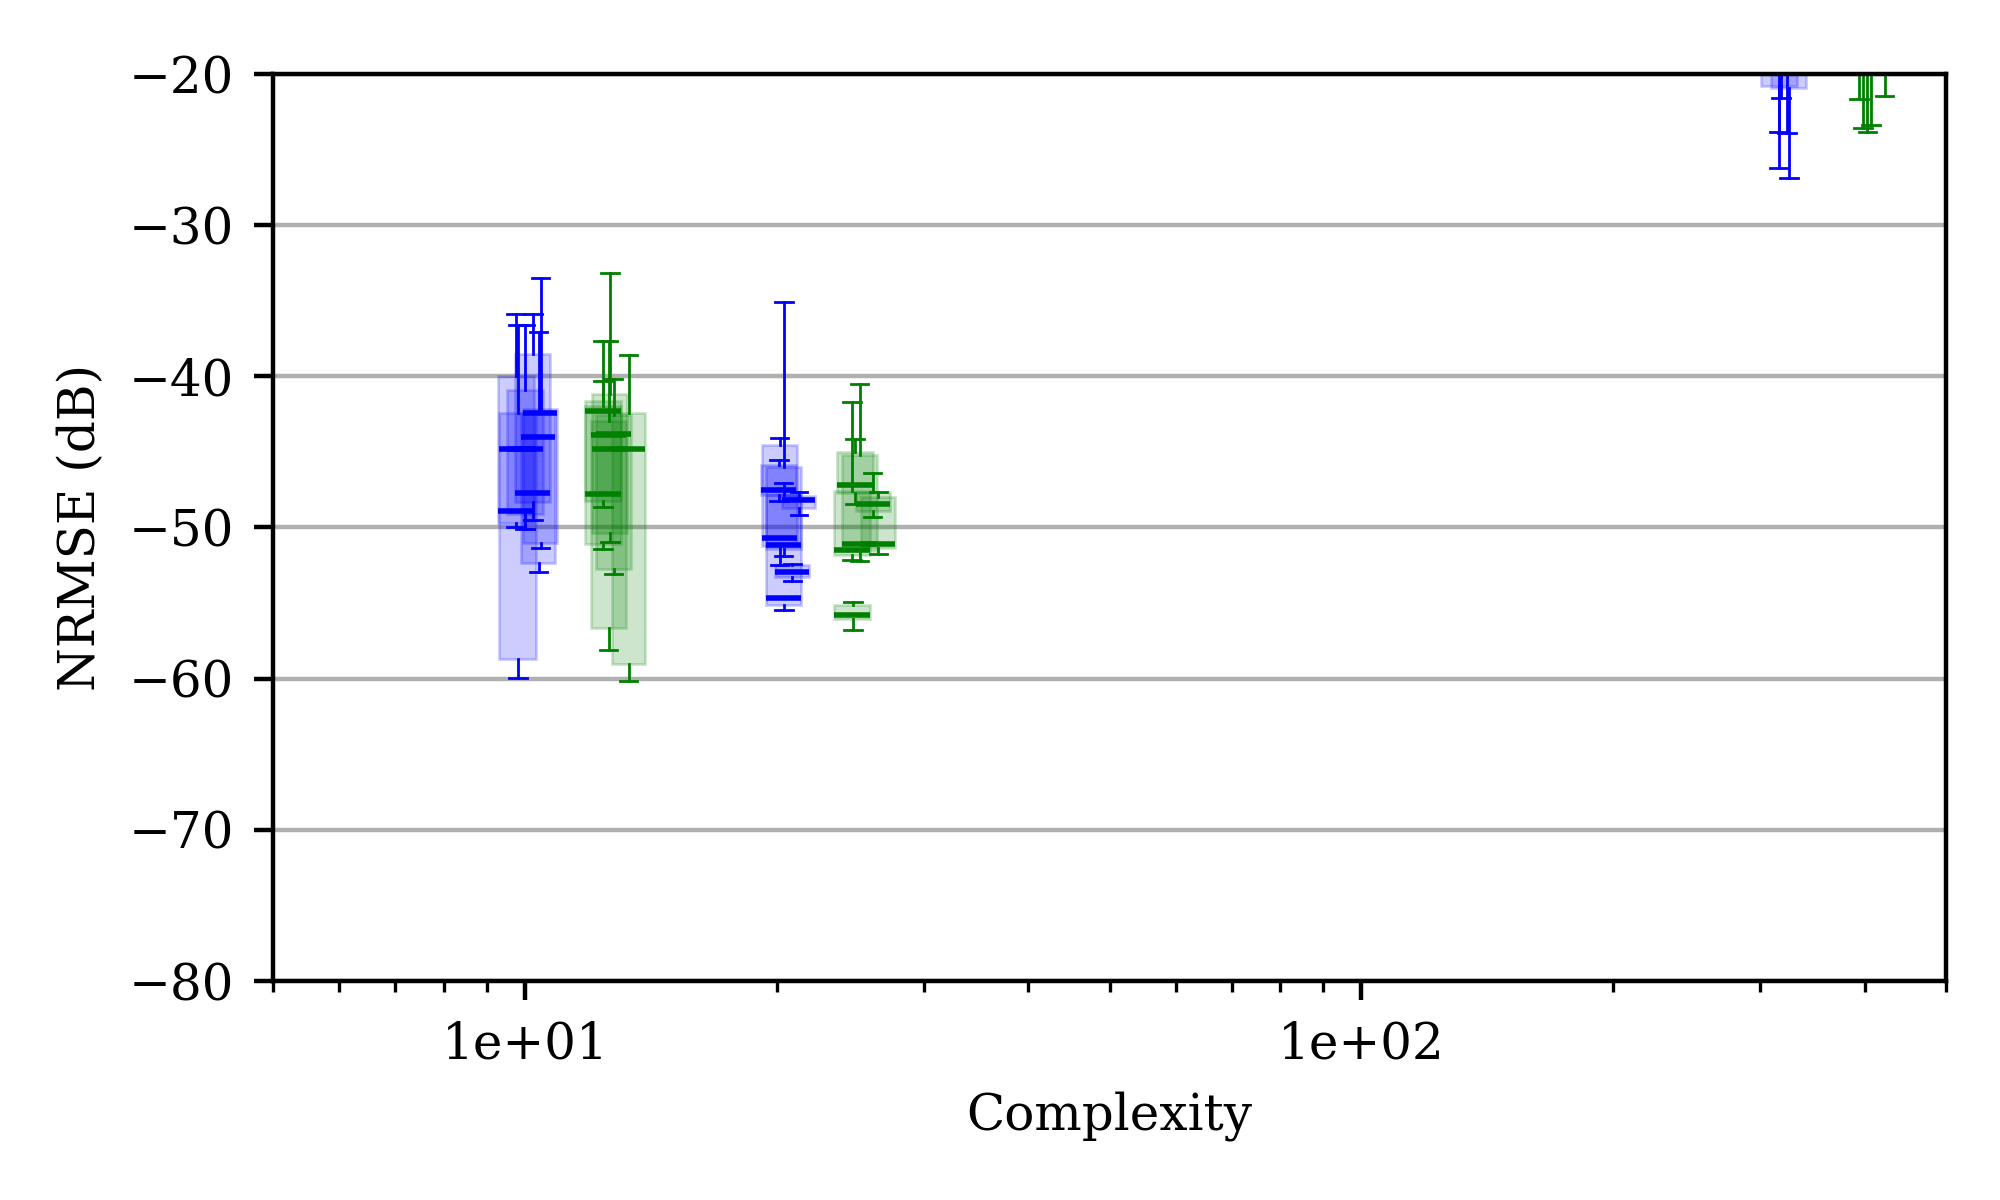
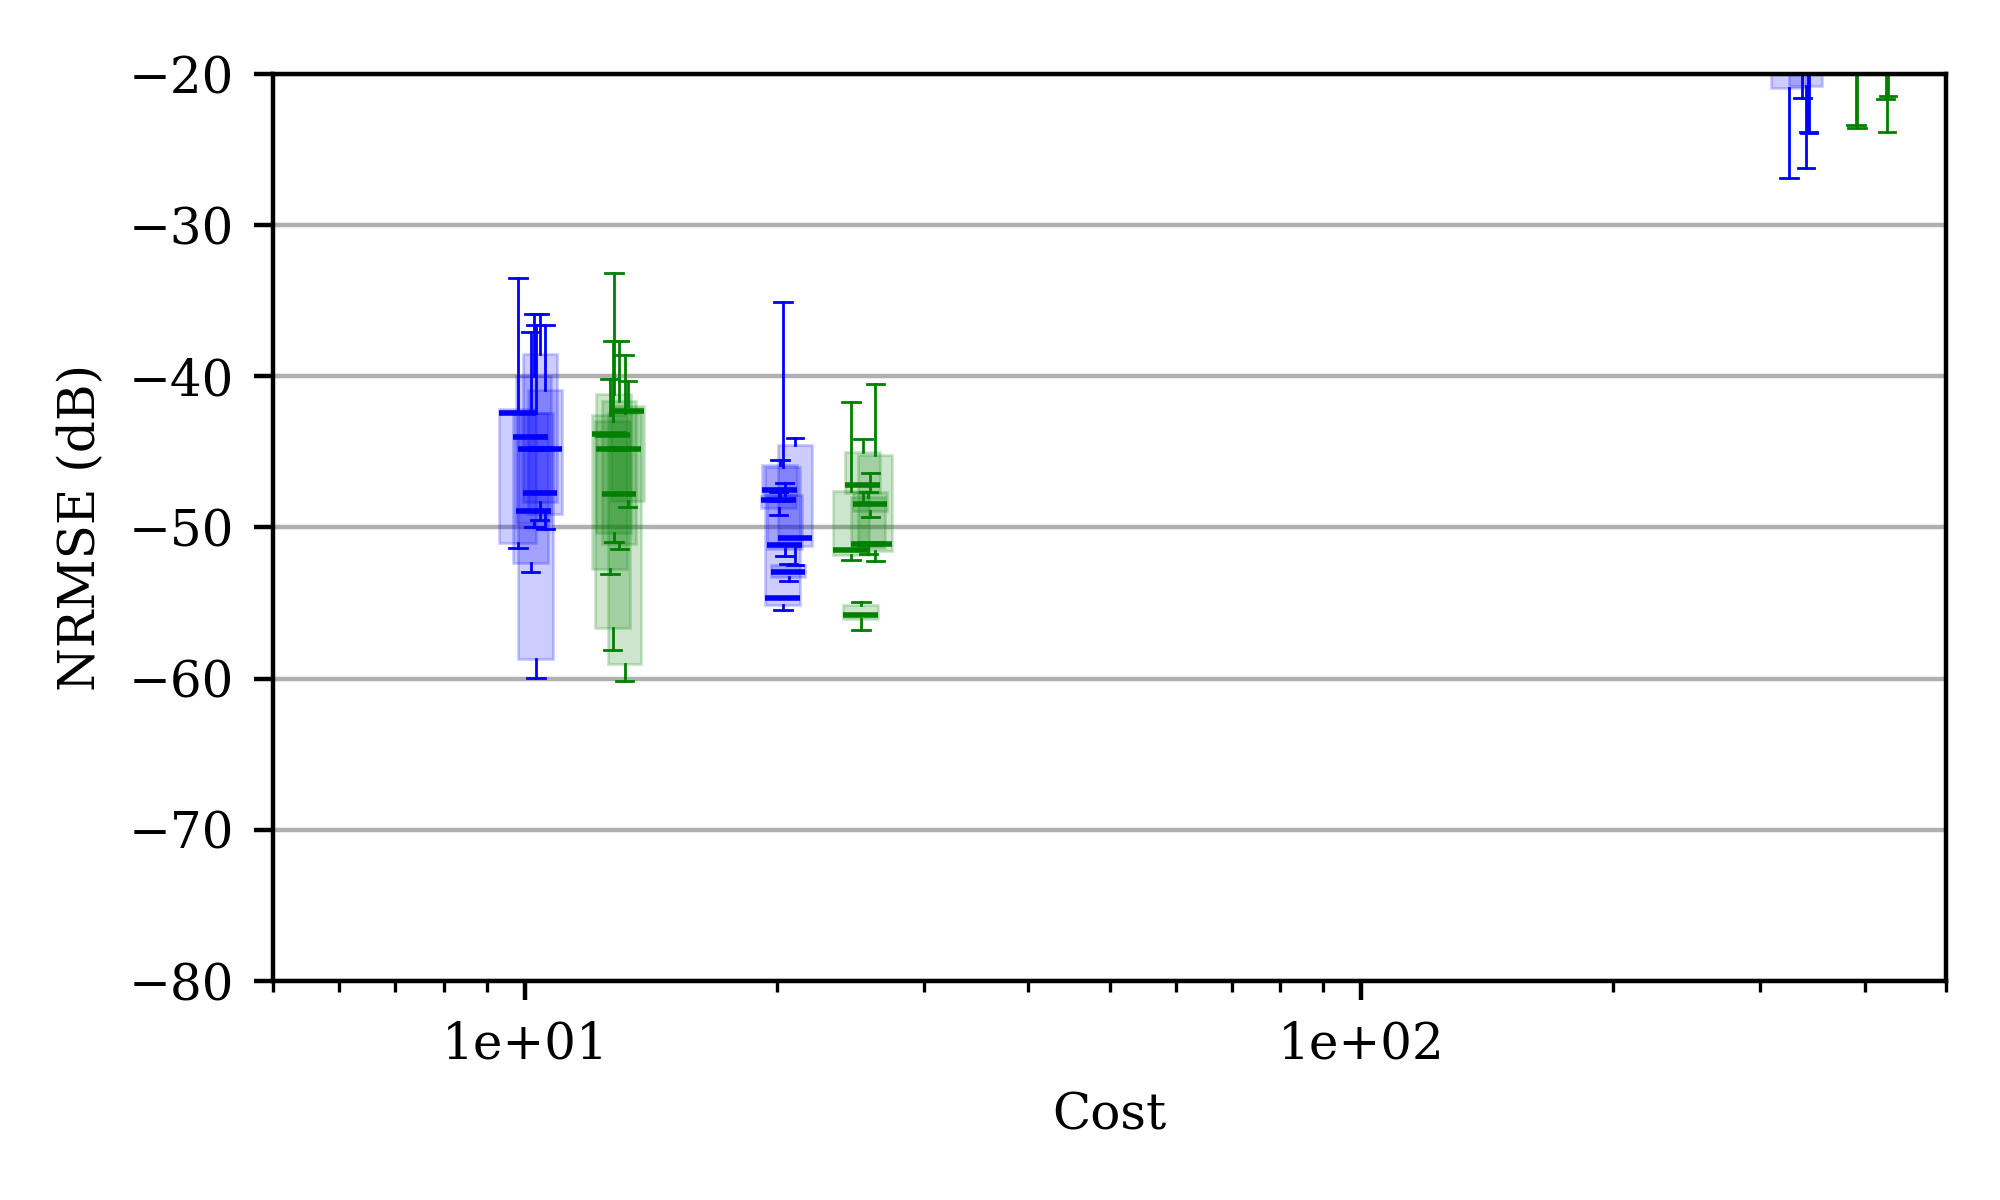
Updated plots

diff --git a/sw/applications/dsm/extdriven_exploration/process_psd.py b/sw/applications/dsm/extdriven_exploration/process_psd.py
@@ -529,9 +529,9 @@ if compare_atte:
 
 ses_ww1 = np.ones(ses_n1)*ses_ww
 ses_ww2 = np.ones(ses_n2)*ses_ww-1
-ses_cost = (ses_n1+ses_n2)**2
+ses_cost = (100/ses_df)*(ses_n1+ses_n2)**2
 cic_n_area = cic_n*1.56 # Area/stage difference wrt SES (D=1), Words=24 bits
-cic_cost = (cic_n_area + (1+cic_d)*cic_n_area/cic_df) * ((2+cic_d)*cic_n_area)
+cic_cost = (100/cic_df)*(cic_n_area + (1+cic_d)*cic_n_area/cic_df) * ((2+cic_d)*cic_n_area)
 
 fbw_Hz = 5e3
 fnyq_Hz = fbw_Hz*2
@@ -615,3 +615,210 @@ plt.tight_layout()
 plt.savefig(f"./figs/SES_vs_CIC_H(z)_{'cost' if compare_cost else 'droop' if compare_droop else 'att' if compare_atte else 'test'}.png", dpi=400)
 plt.show()
 
+
+
+#In[]:
+%matplotlib inline
+
+def get_params( i ):
+    if i==0:
+        # SES params
+        ses_wg = 16
+        ses_n1 = 9
+        ses_n2 = 0
+        ses_ww = 4
+        ses_df = 25
+        # CIC params
+        cic_df = 50
+        cic_d  = 1
+        cic_n  = 9
+
+    if i==1:
+        # SES params
+        ses_wg = 16
+        ses_n1 = 7
+        ses_n2 = 11
+        ses_ww = 4
+        ses_df = 25
+        # CIC params
+        cic_df = 50
+        cic_d  = 1
+        cic_n  = 9
+
+    if i==2:
+        # SES params
+        ses_wg = 16
+        ses_n1 = 1
+        ses_n2 = 15
+        ses_ww = 4
+        ses_df = 25
+        # CIC params
+        cic_df = 50
+        cic_d  = 1
+        cic_n  = 9
+
+    return ses_wg, ses_n1, ses_n2,ses_ww,  ses_df, cic_df, cic_d, cic_n
+
+
+
+def aliasing_integral(freq_Hz, gain_dB, df, fs_Hz, fnyq_Hz, fbw_Hz, n_points=2000):
+    gain_lin2 = 10**(gain_dB / 10)  # |H|^2
+
+    total = 0.0
+    for k in range(1, int(df/2) + 1):
+        fc = k * fs_Hz / df
+        f0 = fc - fnyq_Hz/2
+        f1 = fc + fnyq_Hz/2
+
+        f_grid = np.linspace(f0, f1, n_points)
+        h_grid = np.interp(f_grid, freq_Hz, gain_lin2)
+
+        total += np.trapz(h_grid, f_grid)
+
+    return total / fbw_Hz
+
+
+
+
+
+
+from matplotlib.offsetbox import AnchoredText
+
+plt.rcParams.update({'font.size': 9, 'font.family': 'serif'})
+fig, axs = plt.subplots(1,3, figsize=(10,2), sharey=True)
+
+for i, ax in enumerate(axs):
+    fbw_Hz = 5e3
+    fnyq_Hz = fbw_Hz*2
+    fs_Hz   = fnyq_Hz*100 #  1e6
+
+
+    (ses_wg, ses_n1, ses_n2,ses_ww,  ses_df, cic_df, cic_d, cic_n) = get_params(i)
+
+    ses_ww1 = np.ones(ses_n1)*ses_ww
+    ses_ww2 = np.ones(ses_n2)*ses_ww-1
+    ses_cost = (100/ses_df)*(ses_n1+ses_n2)**2
+
+
+
+
+    cic_n_area = cic_n*1.56 # Area/stage difference wrt SES (D=1), Words=24 bits
+    cic_cost = (100/cic_df)*(cic_n_area + (1+cic_d)*cic_n_area/cic_df) * ((2+cic_d)*cic_n_area)
+
+    cic_Hz, cic_dB = H_z_CIC(D=cic_d, N=cic_n, R=cic_df, fs=fs_Hz)
+    cic_dB -= cic_dB[1]
+
+    droop_f = fbw_Hz
+    droop_n = np.argmin(abs(cic_Hz - droop_f))
+    cic_droop_dB  = cic_dB[droop_n]
+    droop_Hz  = cic_Hz[droop_n]
+
+    cic_aliasing = aliasing_integral(
+                    cic_Hz, cic_dB,
+                    df=cic_df,
+                    fs_Hz=fs_Hz,
+                    fnyq_Hz=fnyq_Hz,
+                    fbw_Hz=fbw_Hz,
+                    n_points=100
+                )
+
+    alias_f = (fs_Hz / cic_df) - fnyq_Hz/2
+    alias_start_n = np.argmin(abs(cic_Hz - alias_f))
+    cic_alias_start_dB  = cic_dB[alias_start_n]
+    alias_start_Hz  = cic_Hz[alias_start_n]
+    ax.plot(cic_Hz/fbw_Hz, cic_dB,  color='r', label=f"CIC")
+    ax.axhline(cic_droop_dB,linestyle=':', linewidth=1, color='r')
+    ax.axhline(cic_alias_start_dB,linestyle='--', linewidth=1, color='r')
+    ax.scatter(alias_start_Hz/fbw_Hz, cic_alias_start_dB, color='red', marker='o', s=25)
+    ax.axvline(fs_Hz/fbw_Hz/cic_df,linestyle='-.', linewidth=1.5, color='red', alpha=0.3)
+
+
+    ses_Hz, ses_dB = H_z_SES(wg=ses_wg, ww0=ses_ww1[0], wwi=np.concatenate((ses_ww1[1:],ses_ww2)), fs=fs_Hz)
+    ses_dB -= ses_dB[1]
+
+    alias_f = (fs_Hz / ses_df) - fnyq_Hz/2
+    alias_start_n = np.argmin(abs(ses_Hz - alias_f))
+    ses_alias_start_dB  = ses_dB[alias_start_n]
+    alias_start_Hz  = ses_Hz[alias_start_n]
+
+    droop_f = fbw_Hz
+    droop_n = np.argmin(abs(ses_Hz - droop_f))
+    ses_droop_dB  = ses_dB[droop_n]
+
+    ses_aliasing = aliasing_integral(
+                ses_Hz, ses_dB,
+                df=ses_df,
+                fs_Hz=fs_Hz,
+                fnyq_Hz=fnyq_Hz,
+                fbw_Hz=fbw_Hz,
+                n_points=100
+            )
+
+    ax.plot(ses_Hz/fbw_Hz, ses_dB,  color='g', label=f"SES")
+    ax.axhline(ses_droop_dB,linestyle=':', linewidth=1, color='g')
+    ax.axhline(ses_alias_start_dB,linestyle='--', linewidth=1, color='g')
+    ax.scatter(alias_start_Hz/fbw_Hz, ses_alias_start_dB, color='g', marker='o', s=25)
+    ax.axvline(fs_Hz/fbw_Hz/ses_df,linestyle='-.', linewidth=1.5, color='g', alpha=0.3)
+
+
+    for k in range(1, int(cic_df/2)+1):
+
+            fc = (k * fs_Hz /fbw_Hz/ cic_df)
+            width = (fnyq_Hz/fbw_Hz)
+            ax.axvspan(fc - width/2, fc + width/2, color='red', alpha=0.07)
+
+    for k in range(1, int(ses_df/2)+1):
+            fc = (k * fs_Hz /fbw_Hz/ ses_df)
+            width = (fnyq_Hz/fbw_Hz)
+            ax.axvspan(fc - width/2, fc + width/2, color='g', alpha=0.07)
+
+
+
+    ax.axvline(10,linestyle=':', linewidth=1, color='black', label="Droop")
+    ax.axvline(10,linestyle='--', linewidth=1, color='black', label="Attenuation")
+    ax.axvline(1,linestyle=':', linewidth=1.5, color='black', label=r'$\text{f}_\text{BW}$')
+    ax.axvline(0,linestyle='-.', linewidth=1.5, color='black', alpha=0.3, label=r'$\text{f}_\text{s}$')
+    ax.axvspan(10, 10, color='gray', alpha=0.3,label='Alias band')
+
+
+
+    box = AnchoredText(
+        f"Cost:     ×{ses_cost/cic_cost:1.1f}\n"
+        # f"Att:      {cic_alias_start_dB-ses_alias_start_dB:+2.1f} dB\n"
+        f"Alias:   {10*np.log10(ses_aliasing / cic_aliasing):+1.0f} dB\n"
+        f"Droop:  {cic_droop_dB-ses_droop_dB:+1.1f} dB",
+        loc="lower left",
+        prop=dict(size=8),
+        frameon=True,
+        borderpad=0.5,
+        pad=0.3,
+    )
+
+    box.patch.set_alpha(1)
+    box.patch.set_boxstyle("round,pad=0.3")
+
+    ax.add_artist(box)
+
+
+    # ax.set_ylim(-50,32)
+    ax.grid(which='both', alpha=0.5)
+    ax.set_xscale("log")
+    # ax.set_xlim(200, 50e3)
+    ax.set_ylim(-200,20)
+    ax.set_xlim(1e-1,1e1)
+
+axs[-1].legend(
+    loc="center left",
+    bbox_to_anchor=(1.02, 0.5),
+    fontsize=8,
+    borderaxespad=0,
+    frameon=False
+)
+
+axs[1].set_xlabel(r"Frequency (Normalized to $f_\text{BW}$)")
+plt.tight_layout(rect=[0.01, 0, 1, 1])
+# ax.legend(loc='lower left', fontsize=8, borderaxespad=1, framealpha=1)
+axs[0].set_ylabel("Normalized gain (dB)")
+# plt.tight_layout()
+plt.savefig(f"./figs/SES_vs_CIC_H(z)_comparison.png", dpi=400)
+plt.show()

diff --git a/sw/applications/dsm/measure_filters/process_power.py b/sw/applications/dsm/measure_filters/process_power.py
@@ -1,5 +1,4 @@
 #In[]:
-
 import pandas as pd
 import matplotlib.pyplot as plt
 
@@ -7,9 +6,6 @@ csv_file = "filter_power_2.csv"
 
 plt.rcParams.update({'font.size': 9, 'font.family': 'serif'})
 df = pd.read_csv(csv_file)
-
-# Expected columns:
-# Filter, Combs, Wg, Ww, DF, AS, Power (µW)
 
 df = df.rename(columns={"Power (µW)": "Power"})
 
@@ -20,70 +16,118 @@ for col in ["Wg", "Ww", "DF", "AS", "Power"]:
 cic = df[df["Filter"] == "CIC"].copy()
 ses = df[df["Filter"] == "SES"].copy()
 
+# Normalize DF to OSR units
+OSR = 200
+cic["DF_norm"] = cic["DF"] / OSR
+
+# ------------------------------------------------------------
+# Extrapolate DF=0.5xOSR and DF=1.0xOSR for AS < 6
+# using stage-6 scaling relative to the lowest DF curve
+# ------------------------------------------------------------
+base_df = 0.25
+target_dfs = [0.5, 1.0]
+ref_as = 6
+
+base_ref_power = cic.loc[
+    (cic["DF_norm"] == base_df) & (cic["AS"] == ref_as),
+    "Power"
+].iloc[0]
+
+extra_rows = []
+
+for target_df in target_dfs:
+    target_ref_power = cic.loc[
+        (cic["DF_norm"] == target_df) & (cic["AS"] == ref_as),
+        "Power"
+    ].iloc[0]
+
+    scale = target_ref_power / base_ref_power
+
+    base_curve = cic[
+        (cic["DF_norm"] == base_df) &
+        (cic["AS"] < ref_as)
+    ].copy()
+
+    base_curve["DF_norm"] = target_df
+    base_curve["DF"] = target_df * OSR
+    base_curve["Power"] = base_curve["Power"] * scale
+    base_curve["Extrapolated"] = True
+
+    extra_rows.append(base_curve)
+
+cic["Extrapolated"] = False
+cic = pd.concat([cic] + extra_rows, ignore_index=True)
+
 ses_avg = ses["Power"].mean()
 ses_min = ses["Power"].min()
 ses_max = ses["Power"].max()
 
-fig, ax = plt.subplots(figsize=(5, 3))
+fig, ax = plt.subplots(figsize=(5, 2.5))
 
-# SES average + min/max band
 ax.axhspan(
     ses_min,
     ses_max,
     alpha=0.18,
-    label=f"SES min–max",
-    color='green'
+    label="SES min–max",
+    color="green"
 )
 
 ax.axhline(
     ses_avg,
     linewidth=2.5,
     linestyle="--",
-    label=f"SES average",
-    color='green'
+    label="SES average",
+    color="green"
 )
 
-# CIC points grouped by DF
-for df_val, group in sorted(cic.groupby("DF")):
+for df_val, group in sorted(cic.groupby("DF_norm")):
     group = group.sort_values("AS")
 
-    ax.scatter(
+    real = group[~group["Extrapolated"]]
+    ext  = group[group["Extrapolated"]]
+
+    alpha = min(1.0, 0.25 / df_val)
+
+    ax.plot(
         group["AS"],
         group["Power"],
-        s=75,
-        # alpha=0.85,
-        label=f"CIC DF={int(df_val)/200}× OSR",
-        color='red',
-        alpha=32/df_val
+        alpha=alpha,
+        color="red"
     )
 
-    if len(group) > 1:
-        ax.plot(
-            group["AS"],
-            group["Power"],
-            alpha=32/df_val,
-            color='red'
-        )
+    ax.scatter(
+        real["AS"],
+        real["Power"],
+        s=75,
+        label=f"R={df_val:1.2g}×OSR",
+        color="red",
+        alpha=alpha
+    )
 
-# Annotate CIC comb count if != 1
-# for _, r in cic.iterrows():
-#     if pd.notna(r["Combs"]) and r["Combs"] != 1:
-#         ax.annotate(
-#             f"C{int(r['Combs'])}",
-#             (r["AS"], r["Power"]),
-#             textcoords="offset points",
-#             xytext=(4, 4),
-#             fontsize=8,
-#         )
+    ax.scatter(
+        ext["AS"],
+        ext["Power"],
+        s=75,
+        color="red",
+        alpha=alpha
+    )
+
+ax.axhline(20, linestyle='--', color='gray', label="DSM @ 1 MHz", zorder=0)
+ax.axhline(4.7, linestyle='--', color='lightgray', label="DSM @ 50 kHz", zorder=0)
 
 ax.set_xlabel("Active stages (AS)")
 ax.set_ylabel("Power (µW)")
 ax.set_title(r"$V_{DD}=1.0\,V, f_{sys}=8\,MHz, f_s=1\,MHz$")
+ax.set_yscale('log')
+ax.set_ylim(1,40)
+ax.set_yticks([1,10])
+ax.set_yticklabels(["1"," 10"])
 ax.set_xticks(sorted(df["AS"].dropna().unique()))
 ax.grid(True, alpha=0.3)
-ax.legend(fontsize=8)
+ax.legend(fontsize=8, bbox_to_anchor=(1.02, 1),borderaxespad=0, frameon=False)
 
 plt.tight_layout()
+plt.savefig("./SES_vs_CIC_power.png", dpi=400)
 plt.show()
 
 print(f"SES average = {ses_avg:.2f} µW")
